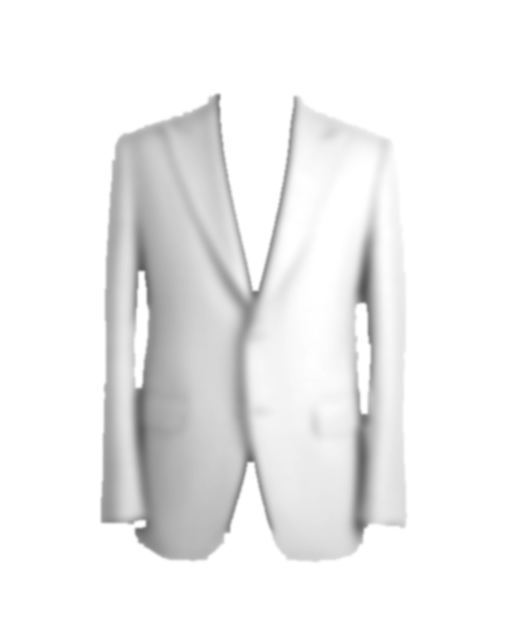
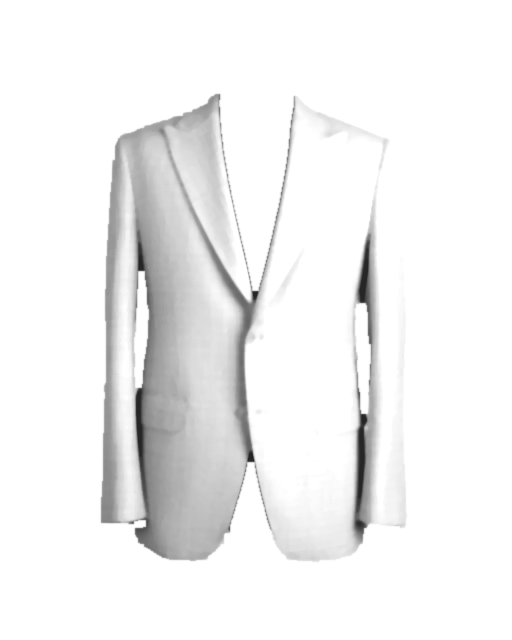
Sharpen the Fitting Room cloth preview
Edge-preserving shading instead of a heavy blur, exact hand cut-outs,
filled gaps in the suit mask, a 2x render so the cloth stays crisp,
and a finer linen texture.

diff --git a/index.html b/index.html
@@ -730,7 +730,8 @@ footer.site { background: var(--green-deep); color: var(--on-green); padding-top
       g.fillStyle = 'rgba(110,70,40,.55)'; for (let p = 40; p < 320; p += 80) { g.fillRect(p, 0, 2, 320); g.fillRect(0, p, 320, 2); } }
     if (kind === 'twill') { g.strokeStyle = accent; g.lineWidth = 2; for (let i = -320; i < 640; i += 6) { g.beginPath(); g.moveTo(i, 0); g.lineTo(i + 320, 320); g.stroke(); } }
     if (kind === 'shark') { for (let y = 0; y < 320; y += 4) for (let x = 0; x < 320; x += 4) if ((x / 4 + y / 4) % 2) { g.fillStyle = accent; g.fillRect(x, y, 2, 4); } }
-    if (kind === 'linen') { for (let i = 0; i < 260; i++) { g.fillStyle = Math.random() > .5 ? 'rgba(240,230,205,.5)' : 'rgba(140,122,90,.4)'; g.fillRect(Math.random() * 320, Math.random() * 320, 14 + Math.random() * 80, 1 + Math.random() * 1.4); } }
+    if (kind === 'linen') { for (let i = 0; i < 420; i++) { g.fillStyle = Math.random() > .5 ? 'rgba(255,250,235,.22)' : 'rgba(120,104,76,.18)'; g.fillRect(Math.random() * 320, Math.random() * 320, 6 + Math.random() * 34, .8 + Math.random() * .8); }
+      for (let i = 0; i < 160; i++) { g.fillStyle = 'rgba(120,104,76,.14)'; g.fillRect(Math.random() * 320, Math.random() * 320, .8, 6 + Math.random() * 26); } }
     if (kind === 'hopsack') { g.fillStyle = accent; for (let y = 0; y < 320; y += 6) for (let x = 0; x < 320; x += 6) if ((x / 6 + y / 6) % 2) g.fillRect(x, y, 5, 5); }
     if (kind === 'paisley') { g.fillStyle = accent; for (let y = 0; y < 320; y += 40) for (let x = 0; x < 320; x += 40) { const ox = (y / 40) % 2 ? 20 : 0; g.beginPath(); g.ellipse(x + ox, y, 9, 13, .6, 0, Math.PI * 2); g.fill(); g.beginPath(); g.arc(x + ox + 8, y - 10, 3, 0, Math.PI * 2); g.fill(); } }
     if (kind === 'bengal') { g.fillStyle = accent; for (let x = 0; x < 320; x += 20) g.fillRect(x, 0, 10, 320); }
@@ -862,14 +863,16 @@ footer.site { background: var(--green-deep); color: var(--on-green); padding-top
     try {
       const [photo, mask, fab] = await Promise.all([loadImg(base.photo), loadImg(base.mask), loadImg(fabricSrc)]);
       if (token !== paintToken) return;
-      const W = photo.naturalWidth, H = photo.naturalHeight;
+      // Drawn at 2x so the cloth stays crisp even though the photos are small
+      const W = photo.naturalWidth * 2, H = photo.naturalHeight * 2;
       const off = document.createElement('canvas'); off.width = W; off.height = H; const o = off.getContext('2d');
-      const pat = o.createPattern(fab, 'repeat'); pat.setTransform(new DOMMatrix().scale(base.scale));
+      o.imageSmoothingQuality = 'high';
+      const pat = o.createPattern(fab, 'repeat'); pat.setTransform(new DOMMatrix().scale(base.scale * 2));
       o.fillStyle = pat; o.fillRect(0, 0, W, H);
       o.globalCompositeOperation = 'multiply'; o.drawImage(mask, 0, 0, W, H);
       o.globalCompositeOperation = 'destination-in'; o.drawImage(mask, 0, 0, W, H);
-      cv.width = W; cv.height = H; const g = cv.getContext('2d');
-      g.drawImage(photo, 0, 0); g.drawImage(off, 0, 0);
+      cv.width = W; cv.height = H; const g = cv.getContext('2d'); g.imageSmoothingQuality = 'high';
+      g.drawImage(photo, 0, 0, W, H); g.drawImage(off, 0, 0);
       $('#pvBase').src = base.photo;
       requestAnimationFrame(() => cv.classList.remove('fade'));
     } catch (e) { cv.classList.remove('fade'); }
